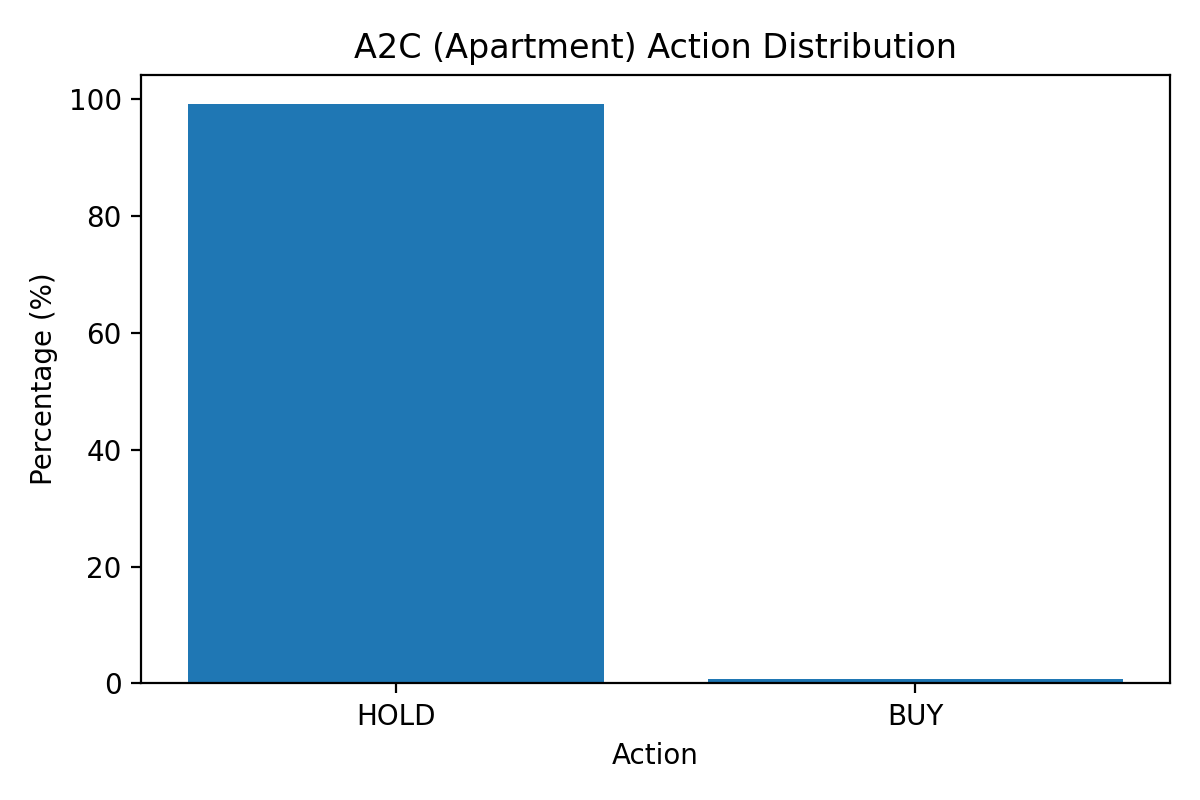
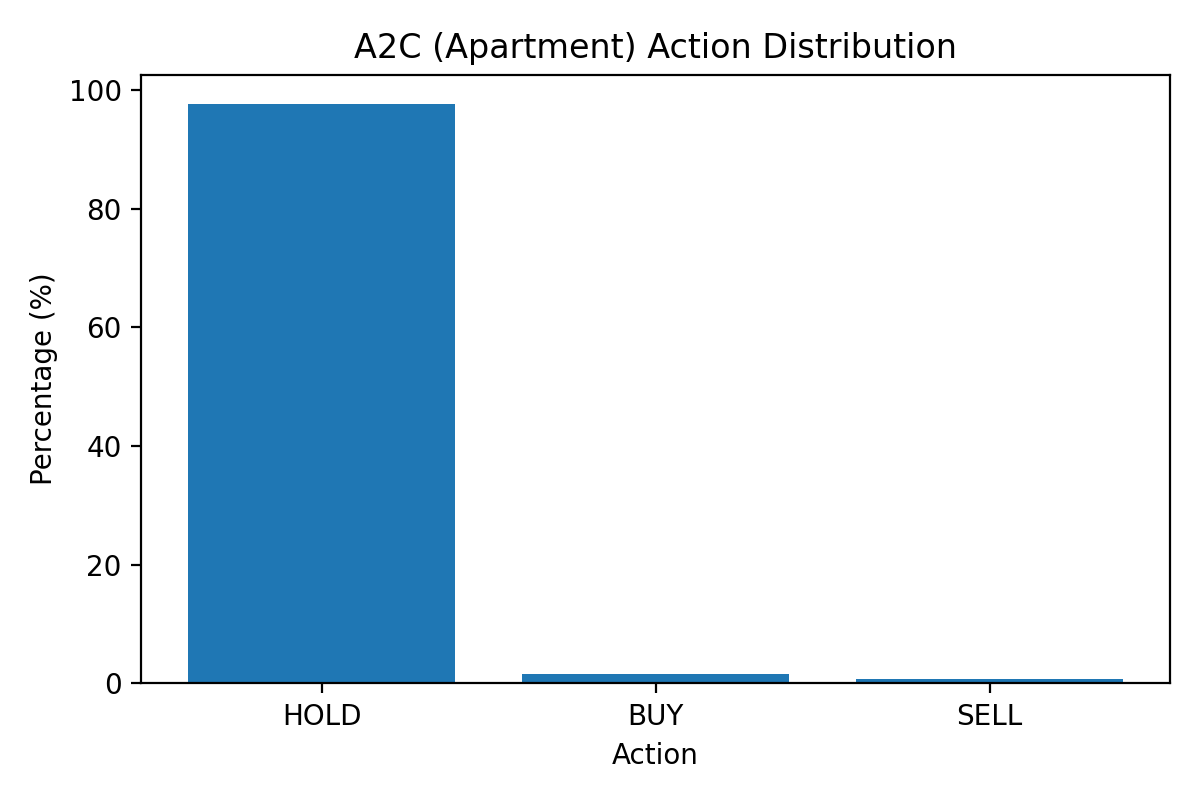
PPO + A2C Fix

diff --git a/HouseRL.py b/HouseRL.py
@@ -48,6 +48,7 @@ ACTIONS = {
     2: "HOLD",
 }
 
+
 # ============================================================
 # LOAD + PREP DATA
 # ============================================================
@@ -101,6 +102,7 @@ def load_data(csv_path: str) -> pd.DataFrame:
     df = df.dropna().reset_index(drop=True)
     return df
 
+
 # ============================================================
 # DISCRETIZATION FOR Q-LEARNING
 # ============================================================
@@ -114,12 +116,14 @@ def bucket_return(x: float) -> str:
         return "UP_SMALL"
     return "UP_BIG"
 
+
 def bucket_momentum(x: float) -> str:
     if x < -0.02:
         return "WEAK"
     if x < 0.02:
         return "NEUTRAL"
     return "STRONG"
+
 
 # ============================================================
 # TABULAR ENV FOR Q-LEARNING
@@ -130,7 +134,7 @@ class HousingEnv:
         self.df = df[
             (df[AREA_COL] == selected_area) &
             (df[TYPE_COL] == selected_type)
-        ].copy().reset_index(drop=True)
+            ].copy().reset_index(drop=True)
 
         if len(self.df) < 12:
             raise ValueError("Not enough data for this area/property type.")
@@ -202,6 +206,8 @@ class HousingEnv:
         reward = 100.0 * ((new_value - old_value) / max(old_value, 1.0)) + invalid_penalty
         next_state = self._get_state()
         return next_state, reward, self.done
+
+
 # ============================================================
 # Q-LEARNING AGENT
 # ============================================================
@@ -220,6 +226,7 @@ class QLearningAgent:
         td_target = reward + GAMMA * best_next
         td_error = td_target - self.q_table[state][action]
         self.q_table[state][action] += ALPHA * td_error
+
 
 def train_q_learning(df: pd.DataFrame, selected_area: str, selected_type: str):
     env = HousingEnv(df, selected_area, selected_type)
@@ -244,6 +251,7 @@ def train_q_learning(df: pd.DataFrame, selected_area: str, selected_type: str):
         epsilon = max(EPSILON_MIN, epsilon * EPSILON_DECAY)
 
     return agent, rewards_per_episode
+
 
 def evaluate_q_learning(agent: QLearningAgent, df: pd.DataFrame, selected_area: str, selected_type: str):
     env = HousingEnv(df, selected_area, selected_type)
@@ -284,6 +292,7 @@ def evaluate_q_learning(agent: QLearningAgent, df: pd.DataFrame, selected_area: 
         "Model": "Q-Learning",
     })
 
+
 # ============================================================
 # GYM ENV FOR PPO / A2C
 # ============================================================
@@ -297,7 +306,7 @@ class HousingGymEnv(gym.Env):
         self.df = df[
             (df[AREA_COL] == selected_area) &
             (df[TYPE_COL] == selected_type)
-        ].copy().reset_index(drop=True)
+            ].copy().reset_index(drop=True)
 
         if len(self.df) < 12:
             raise ValueError("Not enough data for this area/property type.")
@@ -305,11 +314,11 @@ class HousingGymEnv(gym.Env):
         self.action_space = spaces.Discrete(3)
 
         # [return_1m, momentum_3, momentum_6, yoy_change, price_rel,
-        #  holding, cash_ratio, unrealized_pnl, can_buy, can_sell]
+        #  holding, cash_ratio, unrealized_pnl]
         self.observation_space = spaces.Box(
             low=-10.0,
             high=10.0,
-            shape=(10,),
+            shape=(8,),
             dtype=np.float32,
         )
 
@@ -348,8 +357,6 @@ class HousingGymEnv(gym.Env):
             float(self.holding),
             float(np.clip(self.cash / INITIAL_CASH, 0.0, 5.0)),
             float(np.clip(unrealized, -1.0, 1.0)),
-            float(self._can_buy()),
-            float(self._can_sell()),
         ], dtype=np.float32)
 
         return obs
@@ -400,11 +407,8 @@ class HousingGymEnv(gym.Env):
         reward = 100.0 * ((new_value - old_value) / max(old_value, 1.0))
         reward += invalid_penalty
 
-        if terminated:
-            zero_obs = np.zeros(self.observation_space.shape, dtype=np.float32)
-            return zero_obs, float(reward), terminated, truncated, {}
-
         return self._get_obs(), float(reward), terminated, truncated, {}
+
 
 # ============================================================
 # PPO / A2C TRAINING HELPERS
@@ -413,7 +417,9 @@ class HousingGymEnv(gym.Env):
 def make_rl_env(df: pd.DataFrame, selected_area: str, selected_type: str):
     def _init():
         return HousingGymEnv(df, selected_area, selected_type)
+
     return _init
+
 
 def train_ppo(df: pd.DataFrame, selected_area: str, selected_type: str):
     vec_env = DummyVecEnv([make_rl_env(df, selected_area, selected_type)])
@@ -438,6 +444,7 @@ def train_ppo(df: pd.DataFrame, selected_area: str, selected_type: str):
     model.learn(total_timesteps=PPO_TIMESTEPS)
     return model, vec_env
 
+
 def train_a2c(df: pd.DataFrame, selected_area: str, selected_type: str):
     vec_env = DummyVecEnv([make_rl_env(df, selected_area, selected_type)])
     vec_env = VecNormalize(vec_env, norm_obs=True, norm_reward=True, clip_obs=10.0)
@@ -458,7 +465,9 @@ def train_a2c(df: pd.DataFrame, selected_area: str, selected_type: str):
     model.learn(total_timesteps=A2C_TIMESTEPS)
     return model, vec_env
 
-def evaluate_policy_model(model, vec_norm: VecNormalize, df: pd.DataFrame, selected_area: str, selected_type: str, label: str):
+
+def evaluate_policy_model(model, vec_norm: VecNormalize, df: pd.DataFrame, selected_area: str, selected_type: str,
+                          label: str):
     raw_env = HousingGymEnv(df, selected_area, selected_type)
     obs, _ = raw_env.reset()
 
@@ -479,20 +488,29 @@ def evaluate_policy_model(model, vec_norm: VecNormalize, df: pd.DataFrame, selec
         action_int = int(action[0])
         action_name = ACTIONS[action_int]
 
-        action_counts[action_name] += 1
+        # Check validity BEFORE stepping
+        valid_action = (
+                (action_int == 0 and raw_env._can_buy()) or
+                (action_int == 1 and raw_env._can_sell()) or
+                (action_int == 2)  # HOLD always valid
+        )
 
         obs, reward, terminated, truncated, _ = raw_env.step(action_int)
         done = terminated or truncated
 
+        # Only count valid actions
+        if valid_action:
+            action_counts[action_name] += 1
+
         dates.append(raw_env.df.iloc[raw_env.idx][DATE_COL])
         values.append(raw_env._portfolio_value(raw_env._current_price()))
-        actions.append(action_name)
+        actions.append(action_name if valid_action else f"INVALID_{action_name}")
 
-    # Convert to %
     total = sum(action_counts.values())
-    action_percent = {k: (v / total) * 100 for k, v in action_counts.items()}
+    action_percent = {k: (v / total) * 100 for k, v in action_counts.items()} if total > 0 else {k: 0.0 for k in
+                                                                                                 action_counts}
 
-    print(f"\n{label} Action Distribution:")
+    print(f"\n{label} Action Distribution (valid only):")
     print(action_counts)
     print({k: f"{v:.2f}%" for k, v in action_percent.items()})
 
@@ -503,6 +521,7 @@ def evaluate_policy_model(model, vec_norm: VecNormalize, df: pd.DataFrame, selec
         "Model": label,
     })
 
+
 # ============================================================
 # BUY-AND-HOLD BASELINE
 # ============================================================
@@ -511,7 +530,7 @@ def evaluate_buy_and_hold(df: pd.DataFrame, selected_area: str, selected_type: s
     subset = df[
         (df[AREA_COL] == selected_area) &
         (df[TYPE_COL] == selected_type)
-    ].copy().reset_index(drop=True)
+        ].copy().reset_index(drop=True)
 
     first_price = float(subset.iloc[0][PRICE_COL])
 
@@ -538,17 +557,18 @@ def evaluate_buy_and_hold(df: pd.DataFrame, selected_area: str, selected_type: s
         "Model": "Buy-and-Hold",
     })
 
+
 # ============================================================
 # PLOT
 # ============================================================
 
 def plot_final_comparison(
-    q_df: pd.DataFrame,
-    ppo_df: pd.DataFrame,
-    a2c_df: pd.DataFrame,
-    bh_df: pd.DataFrame,
-    area: str,
-    property_type: str
+        q_df: pd.DataFrame,
+        ppo_df: pd.DataFrame,
+        a2c_df: pd.DataFrame,
+        bh_df: pd.DataFrame,
+        area: str,
+        property_type: str
 ):
     plt.figure(figsize=(11, 6))
     plt.plot(q_df["Date"], q_df["PortfolioValue"], label="Q-Learning")
@@ -563,6 +583,7 @@ def plot_final_comparison(
     plt.tight_layout()
     plt.savefig("final_comparison.png", dpi=200)
     plt.show()
+
 
 # ============================================================
 # MAIN
@@ -590,6 +611,7 @@ def plot_with_actions(df: pd.DataFrame, title: str, filename: str):
 
     plt.savefig(filename, dpi=200)
     plt.show()
+
 
 def plot_action_distribution(df: pd.DataFrame, title: str, filename: str):
     action_counts = df["Action"].value_counts()
@@ -624,35 +646,35 @@ if __name__ == "__main__":
         q_agent, q_rewards = train_q_learning(df, area, property_type)
 
         print(f"=== Training PPO for {property_type} in {area} ===")
-        #ppo_model, ppo_vec_norm = train_ppo(df, area, property_type)
+        ppo_model, ppo_vec_norm = train_ppo(df, area, property_type)
 
         print(f"=== Training A2C for {property_type} in {area} ===")
-        #a2c_model, a2c_vec_norm = train_a2c(df, area, property_type)
+        a2c_model, a2c_vec_norm = train_a2c(df, area, property_type)
 
         print(f"=== Evaluating models for {property_type} in {area} ===")
         q_eval = evaluate_q_learning(q_agent, df, area, property_type)
-        #ppo_eval = evaluate_policy_model(ppo_model, ppo_vec_norm, df, area, property_type, "PPO")
-        #a2c_eval = evaluate_policy_model(a2c_model, a2c_vec_norm, df, area, property_type, "A2C")
-        #bh_eval = evaluate_buy_and_hold(df, area, property_type)
+        ppo_eval = evaluate_policy_model(ppo_model, ppo_vec_norm, df, area, property_type, "PPO")
+        a2c_eval = evaluate_policy_model(a2c_model, a2c_vec_norm, df, area, property_type, "A2C")
+        bh_eval = evaluate_buy_and_hold(df, area, property_type)
 
         print("\nFinal portfolio values:")
         print(f"Q-Learning:   ${q_eval['PortfolioValue'].iloc[-1]:,.2f}")
-        #print(f"PPO:          ${ppo_eval['PortfolioValue'].iloc[-1]:,.2f}")
-        #print(f"A2C:          ${a2c_eval['PortfolioValue'].iloc[-1]:,.2f}")
-        #print(f"Buy-and-Hold: ${bh_eval['PortfolioValue'].iloc[-1]:,.2f}")
+        print(f"PPO:          ${ppo_eval['PortfolioValue'].iloc[-1]:,.2f}")
+        print(f"A2C:          ${a2c_eval['PortfolioValue'].iloc[-1]:,.2f}")
+        print(f"Buy-and-Hold: ${bh_eval['PortfolioValue'].iloc[-1]:,.2f}")
 
         # =========================
         # PLOT PORTFOLIO COMPARISON
         # =========================
-        #plot_final_comparison(q_eval, ppo_eval, a2c_eval, bh_eval, area, property_type)
+        plot_final_comparison(q_eval, ppo_eval, a2c_eval, bh_eval, area, property_type)
 
         # =========================
         # ACTION VISUALIZATIONS
         # =========================
         plot_with_actions(q_eval, f"Q-Learning Actions: {property_type}", f"q_actions_{property_type}.png")
-        #plot_with_actions(ppo_eval, f"PPO Actions: {property_type}", f"ppo_actions_{property_type}.png")
-        #plot_with_actions(a2c_eval, f"A2C Actions: {property_type}", f"a2c_actions_{property_type}.png")
+        plot_with_actions(ppo_eval, f"PPO Actions: {property_type}", f"ppo_actions_{property_type}.png")
+        plot_with_actions(a2c_eval, f"A2C Actions: {property_type}", f"a2c_actions_{property_type}.png")
 
         plot_action_distribution(q_eval, f"Q-Learning ({property_type})", f"q_dist_{property_type}.png")
-        #plot_action_distribution(ppo_eval, f"PPO ({property_type})", f"ppo_dist_{property_type}.png")
-        #plot_action_distribution(a2c_eval, f"A2C ({property_type})", f"a2c_dist_{property_type}.png")
+        plot_action_distribution(ppo_eval, f"PPO ({property_type})", f"ppo_dist_{property_type}.png")
+        plot_action_distribution(a2c_eval, f"A2C ({property_type})", f"a2c_dist_{property_type}.png")
